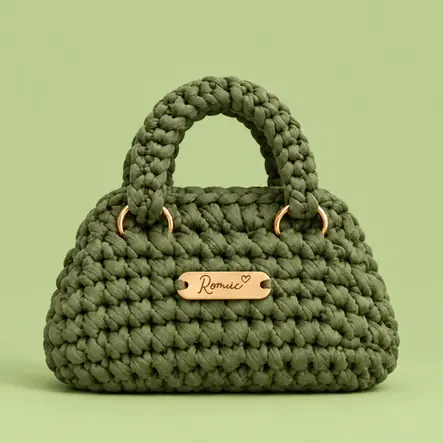
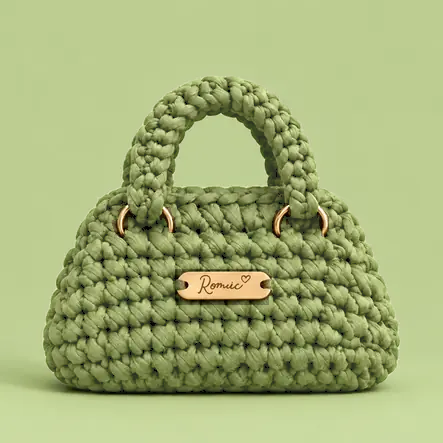
Correct green custom bag yarn colour without redrawing product details

diff --git a/scripts/recolor-green.py b/scripts/recolor-green.py
@@ -1,0 +1,92 @@
+"""Deterministic yarn-only colour correction; never resamples or redraws pixels."""
+from pathlib import Path
+import hashlib
+import json
+import numpy as np
+from PIL import Image
+
+ROOT = Path(__file__).resolve().parent.parent
+MASKS = json.loads((ROOT / 'image-masks.json').read_text())
+REFERENCE = 'assets/custom/clutch/lime-front.webp'
+TARGETS = {
+    'maldives': {'plate': (389, 445, 516, 495), 'minimum_hue': 48},
+    'dubai': {'plate': (175, 269, 269, 305), 'minimum_hue': 55},
+}
+
+def hsv(rgb):
+    hi, lo = rgb.max(2), rgb.min(2)
+    span = hi - lo
+    hue = np.zeros(hi.shape)
+    red = (hi == rgb[:, :, 0]) & (span > 0)
+    green = (hi == rgb[:, :, 1]) & (span > 0)
+    blue = (hi == rgb[:, :, 2]) & (span > 0)
+    hue[red] = ((rgb[:, :, 1] - rgb[:, :, 2])[red] / span[red]) % 6
+    hue[green] = (rgb[:, :, 2] - rgb[:, :, 0])[green] / span[green] + 2
+    hue[blue] = (rgb[:, :, 0] - rgb[:, :, 1])[blue] / span[blue] + 4
+    return hue * 60, np.divide(span, hi, out=np.zeros_like(span), where=hi > 0)
+
+MATRIX = np.array([[.4124564, .3575761, .1804375], [.2126729, .7151522, .0721750], [.0193339, .1191920, .9503041]])
+WHITE = np.array([.95047, 1., 1.08883])
+DELTA = 6 / 29
+
+def to_lab(rgb):
+    linear = np.where(rgb <= .04045, rgb / 12.92, ((rgb + .055) / 1.055) ** 2.4)
+    xyz = (linear @ MATRIX.T) / WHITE
+    f = np.where(xyz > DELTA ** 3, np.cbrt(xyz), xyz / (3 * DELTA ** 2) + 4 / 29)
+    return np.stack([116 * f[:, :, 1] - 16, 500 * (f[:, :, 0] - f[:, :, 1]), 200 * (f[:, :, 1] - f[:, :, 2])], axis=2)
+
+def from_lab(lab):
+    fy = (lab[:, :, 0] + 16) / 116
+    f = np.stack([fy + lab[:, :, 1] / 500, fy, fy - lab[:, :, 2] / 200], axis=2)
+    xyz = np.where(f > DELTA, f ** 3, 3 * DELTA ** 2 * (f - 4 / 29)) * WHITE
+    linear = np.clip(xyz @ np.linalg.inv(MATRIX).T, 0, 1)
+    return np.clip(np.where(linear <= .0031308, linear * 12.92, 1.055 * linear ** (1 / 2.4) - .055), 0, 1)
+
+def load(path):
+    pixels = np.asarray(Image.open(path).convert('RGB'))
+    return pixels, pixels.astype(float) / 255
+
+def yarn(rgb, alpha, minimum_hue):
+    hue, saturation = hsv(rgb)
+    return (alpha > 0) & (hue > minimum_hue) & (hue < 110) & (saturation > .12)
+
+reference_pixels, reference_rgb = load(ROOT / 'site' / REFERENCE)
+reference_alpha = np.asarray(Image.open(ROOT / MASKS[REFERENCE]['mask']).convert('L'))
+reference_yarn = yarn(reference_rgb, reference_alpha, 55)
+reference_yarn[:int(reference_yarn.shape[0] * .5)] = False
+reference_mid = np.median(to_lab(reference_rgb)[reference_yarn & (reference_alpha == 255)], axis=0)
+report = {'method': 'CIELAB median offset on existing yarn pixels only; lossless WebP', 'reference': REFERENCE, 'reference_sha256': hashlib.sha256((ROOT / 'site' / REFERENCE).read_bytes()).hexdigest(), 'targets': {}}
+
+for model, settings in TARGETS.items():
+    relative = f'assets/custom/{model}/lime.webp'
+    source = ROOT / 'image-color-originals' / relative
+    source.parent.mkdir(parents=True, exist_ok=True)
+    if not source.exists():
+        source.write_bytes((ROOT / 'site' / relative).read_bytes())
+    original, rgb = load(source)
+    alpha = np.asarray(Image.open(ROOT / MASKS[relative]['mask']).convert('L'))
+    selected = yarn(rgb, alpha, settings['minimum_hue'])
+    x1, y1, x2, y2 = settings['plate']
+    selected[y1:y2, x1:x2] = False
+    sample = selected & (alpha == 255)
+    sample[:int(sample.shape[0] * .5)] = False
+    lab = to_lab(rgb)
+    offset = reference_mid - np.median(lab[sample], axis=0)
+    shifted = from_lab(lab + offset)
+    strength = alpha.astype(float) / 255
+    corrected = np.round((rgb + (shifted - rgb) * strength[:, :, None]) * 255).astype(np.uint8)
+    result = original.copy()
+    result[selected] = corrected[selected]
+    output = ROOT / 'image-color-review' / relative
+    output.parent.mkdir(parents=True, exist_ok=True)
+    Image.fromarray(result).save(output, format='WEBP', lossless=True, method=6)
+    decoded, _ = load(output)
+    assert decoded.shape == original.shape
+    assert np.array_equal(decoded[~selected], original[~selected]), 'Non-yarn pixels changed'
+    assert np.array_equal(decoded[y1:y2, x1:x2], original[y1:y2, x1:x2]), 'Logo changed'
+    assert np.array_equal(decoded[alpha == 0], original[alpha == 0]), 'Background changed'
+    assert np.array_equal(decoded, result), 'Encoding was not lossless'
+    report['targets'][relative] = {'original_sha256': hashlib.sha256(source.read_bytes()).hexdigest(), 'corrected_sha256': hashlib.sha256(output.read_bytes()).hexdigest(), 'dimensions': [decoded.shape[1], decoded.shape[0]], 'selected_pixels': int(selected.sum()), 'lab_offset': offset.tolist(), 'non_yarn_changed_pixels': 0, 'logo_changed_pixels': 0, 'background_changed_pixels': 0}
+
+(ROOT / 'image-color-review' / 'green-correction.json').write_text(json.dumps(report, indent=2) + '\n')
+print(json.dumps(report, indent=2))

diff --git a/LAUNCH-REVIEW.md b/LAUNCH-REVIEW.md
@@ -22,7 +22,7 @@
 
 ## אומת מקומית
 
-שש בדיקות אוטומטיות עברו: חישובים והודעת וואטסאפ בשתי השפות, פקיעת ההשקה, קופון חברות ועיצוב אישי, ברירת מחדל של איסוף עצמי, שימור תמונות המקור ושער אישור התמונות, ושימור מוצר בעת הוספת צל.
+שבע בדיקות אוטומטיות עברו, כולל שימור הרקע, הלוגו, המתכת והמידות בתיקון הירוק: חישובים והודעת וואטסאפ בשתי השפות, פקיעת ההשקה, קופון חברות ועיצוב אישי, ברירת מחדל של איסוף עצמי, שימור תמונות המקור ושער אישור התמונות, ושימור מוצר בעת הוספת צל.
 
 בדיקות אינטראקציה ב־DOM עברו בעברית ובאנגלית: טעינת הדף, הפעלה מהחלון, החלפת קוד בסל ריק, מחיר העיצוב האישי, מחירי סל, הסרת קוד ומעבר שפה. אלו אינן בדיקות חזותיות בדפדפן.
 
@@ -30,7 +30,7 @@
 
 ## עדיין פתוח
 
-- שני גווני הירוק בעיצוב אישי: ניסיון עריכת AI שינה גם פרטים אחרים ולכן נפסל. התמונות הקיימות נשארו. נדרשת תמונה אמינה בגוון הנכון או הסכמה לשיטת תיקון גוון מבוקרת בלבד לפני החלפתן.
+- שני גווני הירוק בעיצוב אישי תוקנו לאחר אישור אמיר לתיקון צבע רגיל ללא AI. בוצעה התאמת גוון ובהירות בחוטים המקוריים בלבד לפי הקלאץ׳ הרגיל. המקורות נשמרו ב־image-color-originals; הרקע, תג הלוגו, מידות התמונה והמתכת החמה נבדקו ללא שינוי בפיקסלים המוגנים. התוצאות נשמרו ב־WebP ללא אובדן. פרטי הבדיקה ב־image-color-corrections.json.
 - נבדקו בדפדפן חלון ההשקה במחשב ובמסגרת מובייל ברוחב 390 פיקסלים, הפעלת הקופון בלי מעבר כפוי, החלפת קופון בסל ריק, מחיר Rio לאחר 30% ואיסוף עצמי כברירת מחדל. התפריט נפתח מאותו צד של הכפתור בעברית ובאנגלית, כולל שורת סל וקישור להיכרות עם ROMIC. תצוגת הביקורת משתמשת בקובצי המקור; טרם הושלמה בדיקה חזותית בדפדפן של כל נגזרות התמונות מתוך הבנייה הסופית במחשב ובמובייל. סקשן הסרטון נבדק במובייל: הסרטון נטען ומתנגן, מוצג במלואו עם אפשרות השהיה וקישור לרילס. תווית קישור הפרופיל תוקנה להתחלף גם לקוראי מסך במעבר שפה.
 - הסרטון שסופק משולב עם כתובת הרילס שסופקה. לא אומתה עצמאית זהות הסרטון מול תוכן הרילס באינסטגרם.
 - אימות דו־שלבי ומורשי עריכה בחשבון GitHub לא נבדקו; לא שונו הרשאות או חשבונות.
